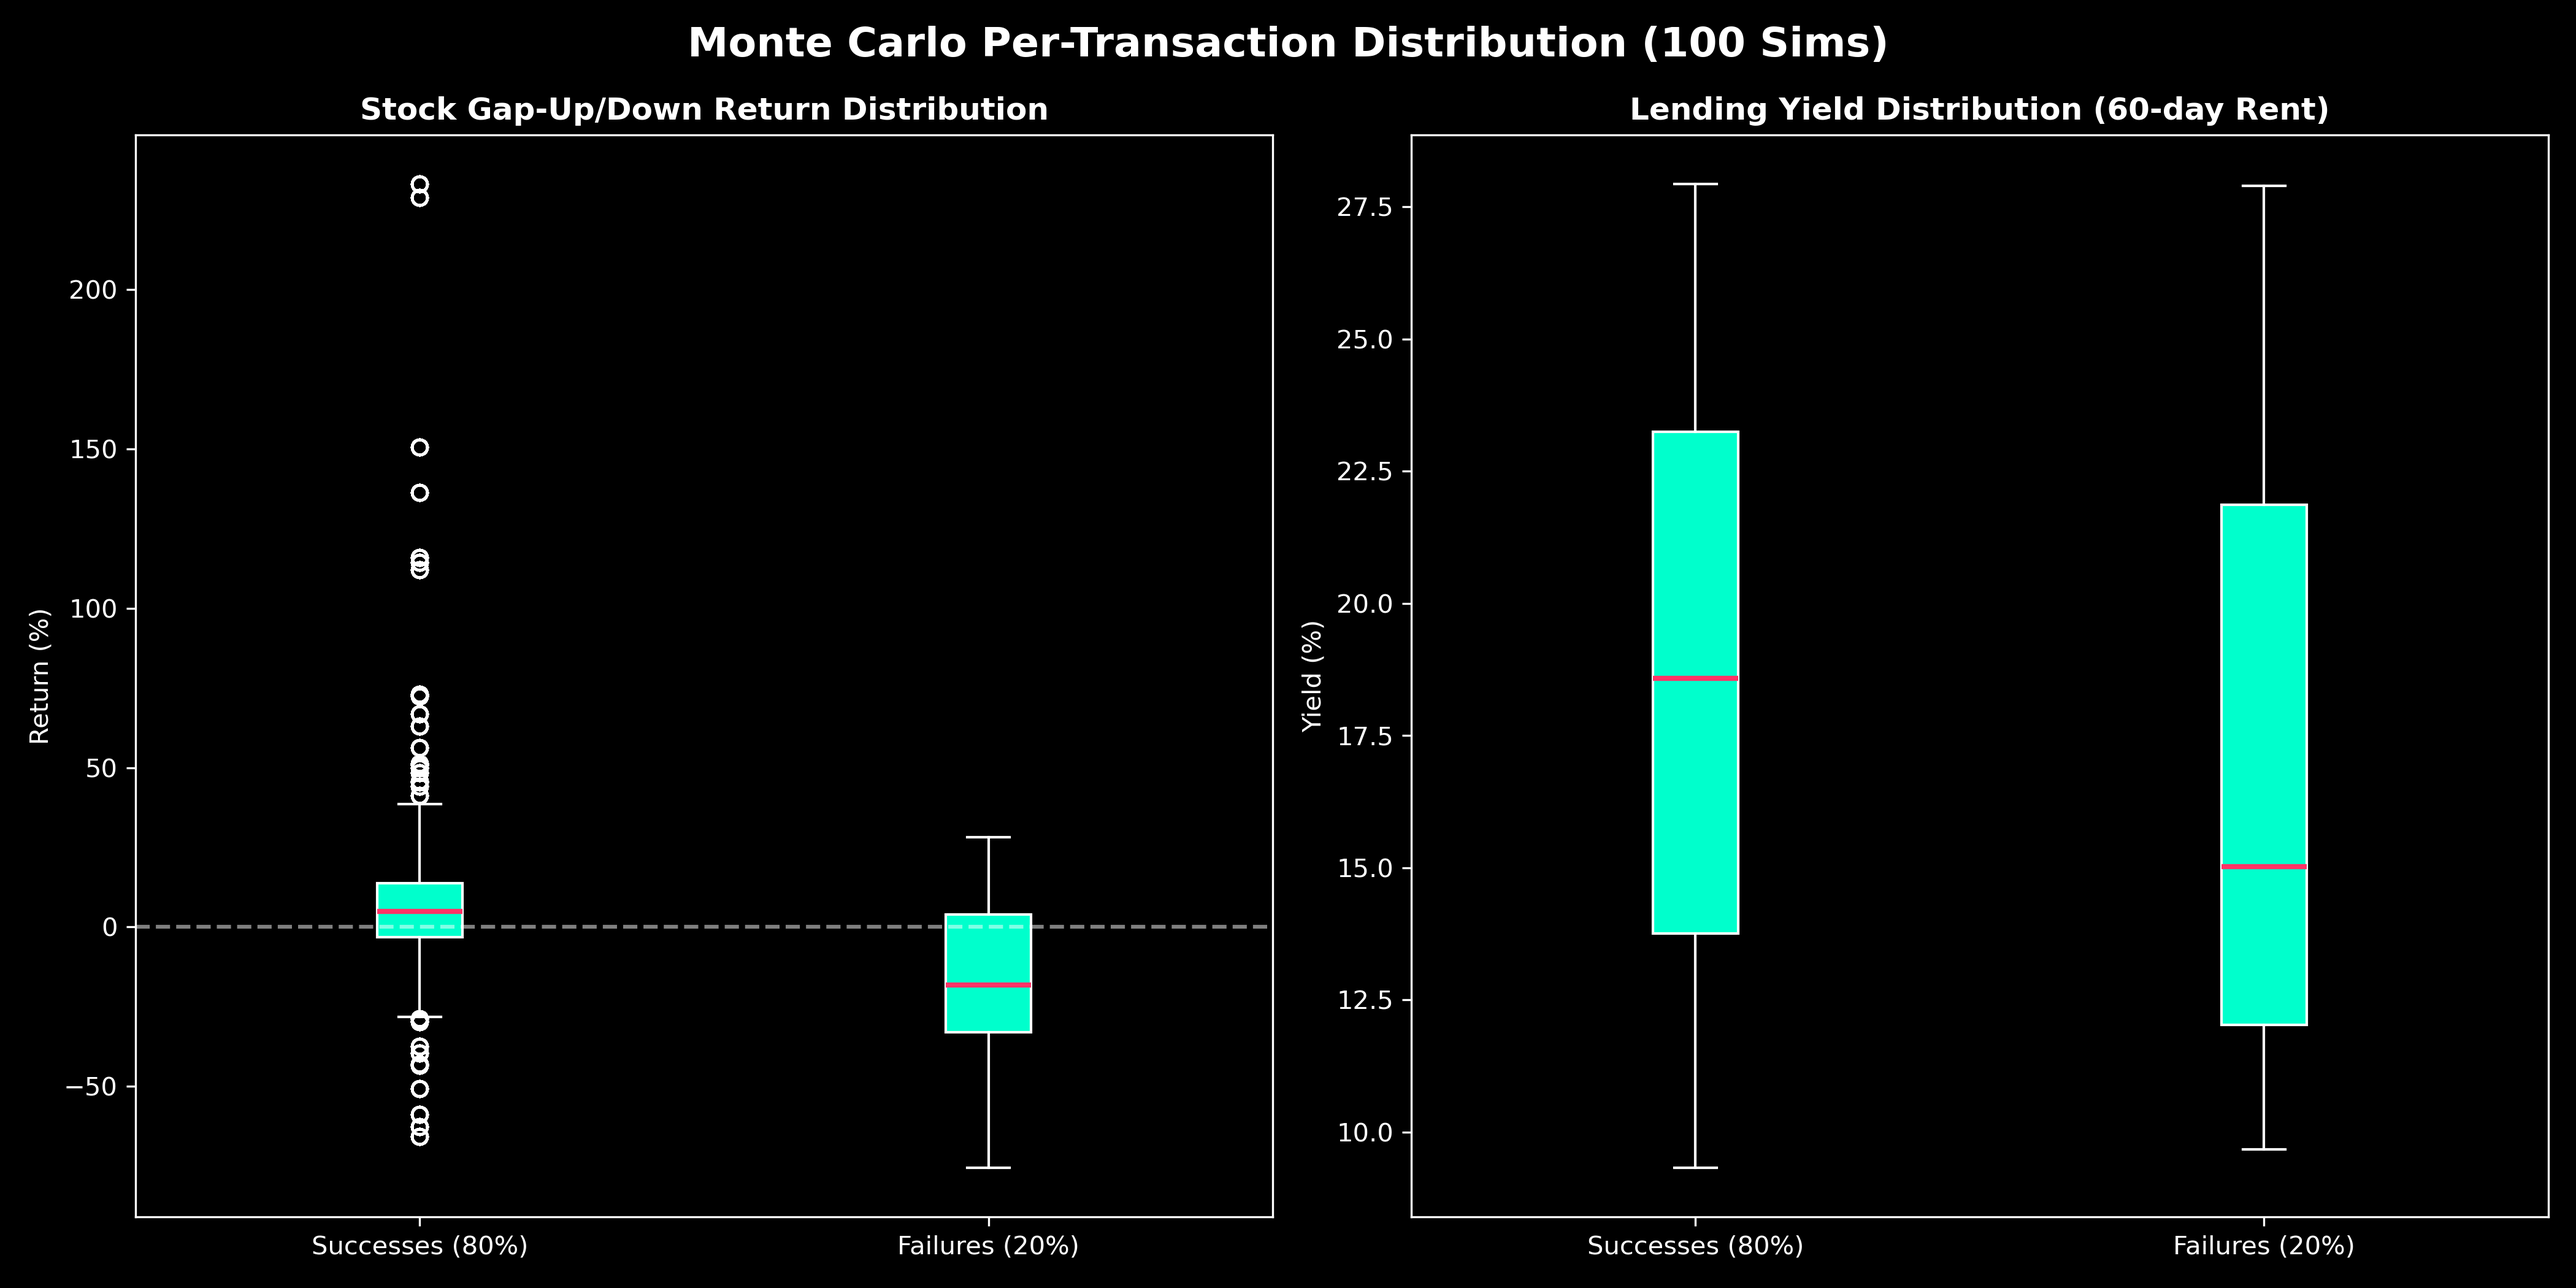
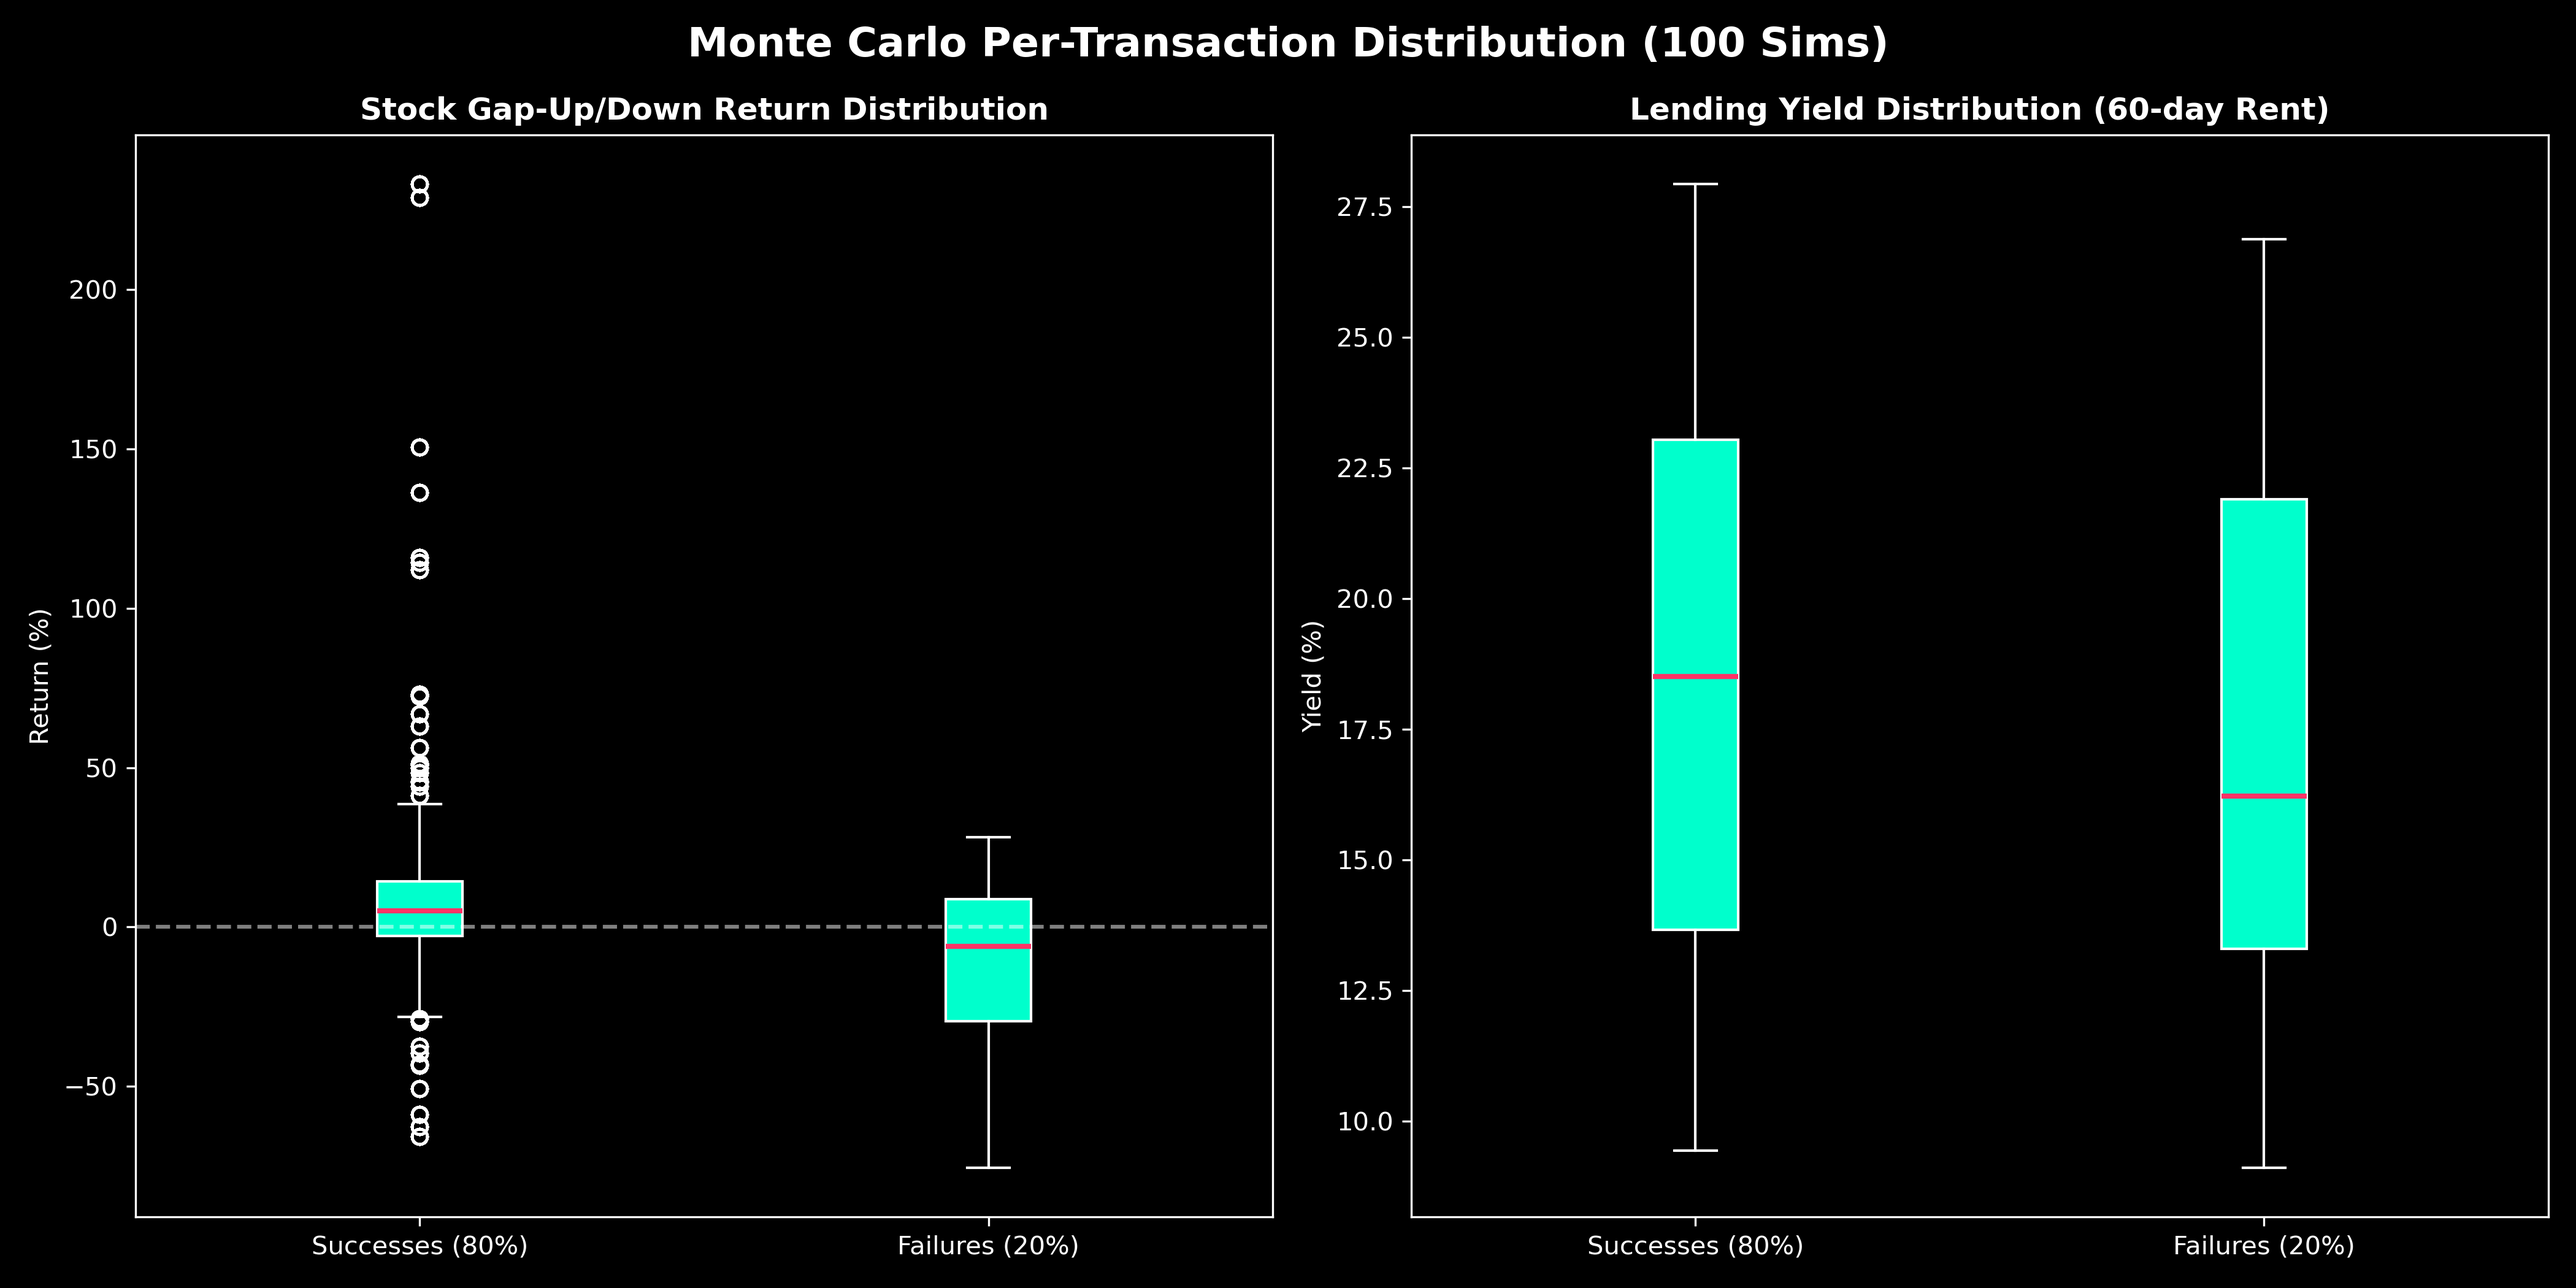
Update V3 Monte Carlo backtest to focus solely on the high-frequency 2014-2018 window

diff --git a/src/fpsl_mc_engine.py b/src/fpsl_mc_engine.py
@@ -88,7 +88,7 @@ with open(CSV_FILE, 'r') as f:
             })
 
 all_events.sort(key=lambda x: x['Catalyst_Date'])
-all_events = [ev for ev in all_events if ev['Catalyst_Date'] >= datetime(2011, 8, 1)]
+all_events = [ev for ev in all_events if datetime(2014, 1, 1) <= ev['Catalyst_Date'] <= datetime(2018, 12, 31)]
 print(f"Found {len([e for e in all_events if e['Actual_Outcome'] == 'Success'])} successes and {len([e for e in all_events if e['Actual_Outcome'] == 'Failure'])} failures.")
 
 valid_events = []

diff --git a/README.md b/README.md
@@ -14,7 +14,7 @@ However, rather than relying solely on the capital appreciation (the "gap up") o
 4. **The FPSL Kicker (The "Rent"):** During the 60-day holding period, these biotech stocks are heavily shorted by the broader market predicting failure. The fund lends its shares out to these short-sellers, collecting massive borrow fees (typically ranging from 40% to 120% APR).
 5. **Exit:** The position is exited exactly 2 days after the catalyst date to capture the gap-up return and close the trade.
 
-A **Monte Carlo Simulation (100 Iterations)** was performed assuming the AI model has an **80% Precision Rate** (80% of taken trades are actual clinical successes, 20% are actual failures). The daily-rebalancing model (ignoring the 1.5 year gap prior to August 2011) compounded an initial capital of $10M into a **Mean Final NAV of $257.90 Million** (a **57.93% Mean CAGR**).
+A **Monte Carlo Simulation (100 Iterations)** was performed assuming the AI model has an **80% Precision Rate** (80% of taken trades are actual clinical successes, 20% are actual failures). The daily-rebalancing model (focusing solely on the high-frequency 2014-2018 window) compounded an initial capital of $10M into a **Mean Final NAV of $724.84 Million** (a **173.70% Mean CAGR**).
 
 ![Fund Performance Curve](fpsl_mc_plot.png)
 
@@ -24,7 +24,7 @@ In reality, many "successful" Phase 2/3 trials result in the stock trading down 
 ![Per-Trade Statistics](fpsl_mc_boxplots.png)
 
 ### Representative Simulation (Per-Trade Breakdown)
-To visualize exactly how the yield cushions the capital losses in a single sequential timeline, the script isolates the specific simulation whose final NAV closest matches the $257.90 Million Mean.
+To visualize exactly how the yield cushions the capital losses in a single sequential timeline, the script isolates the specific simulation whose final NAV closest matches the $724.84 Million Mean.
 
 ![Representative MC Simulation Trades](fpsl_mc_representative_trades.png)
 
